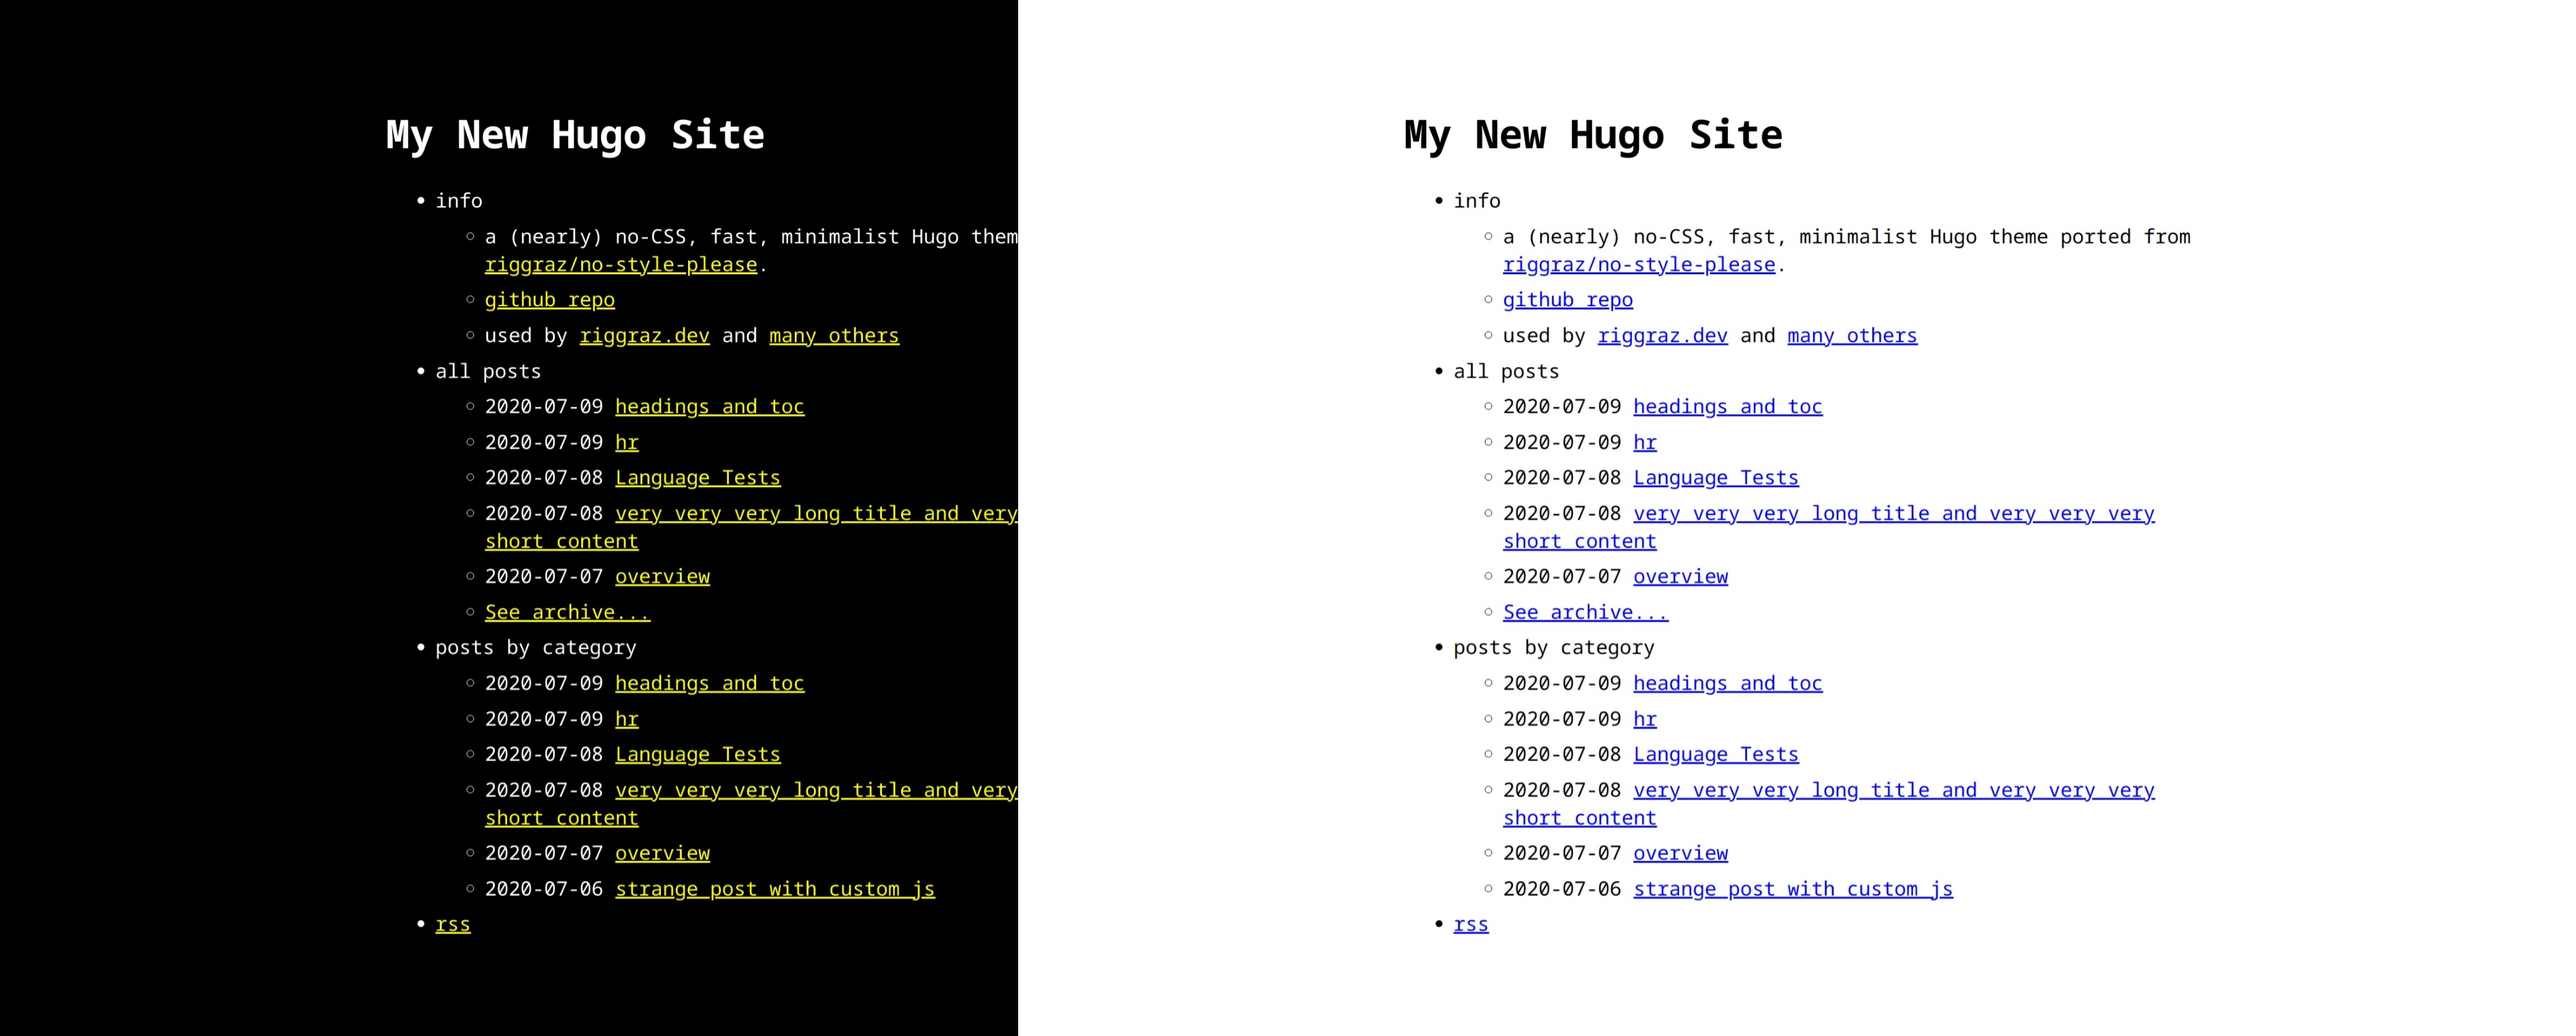
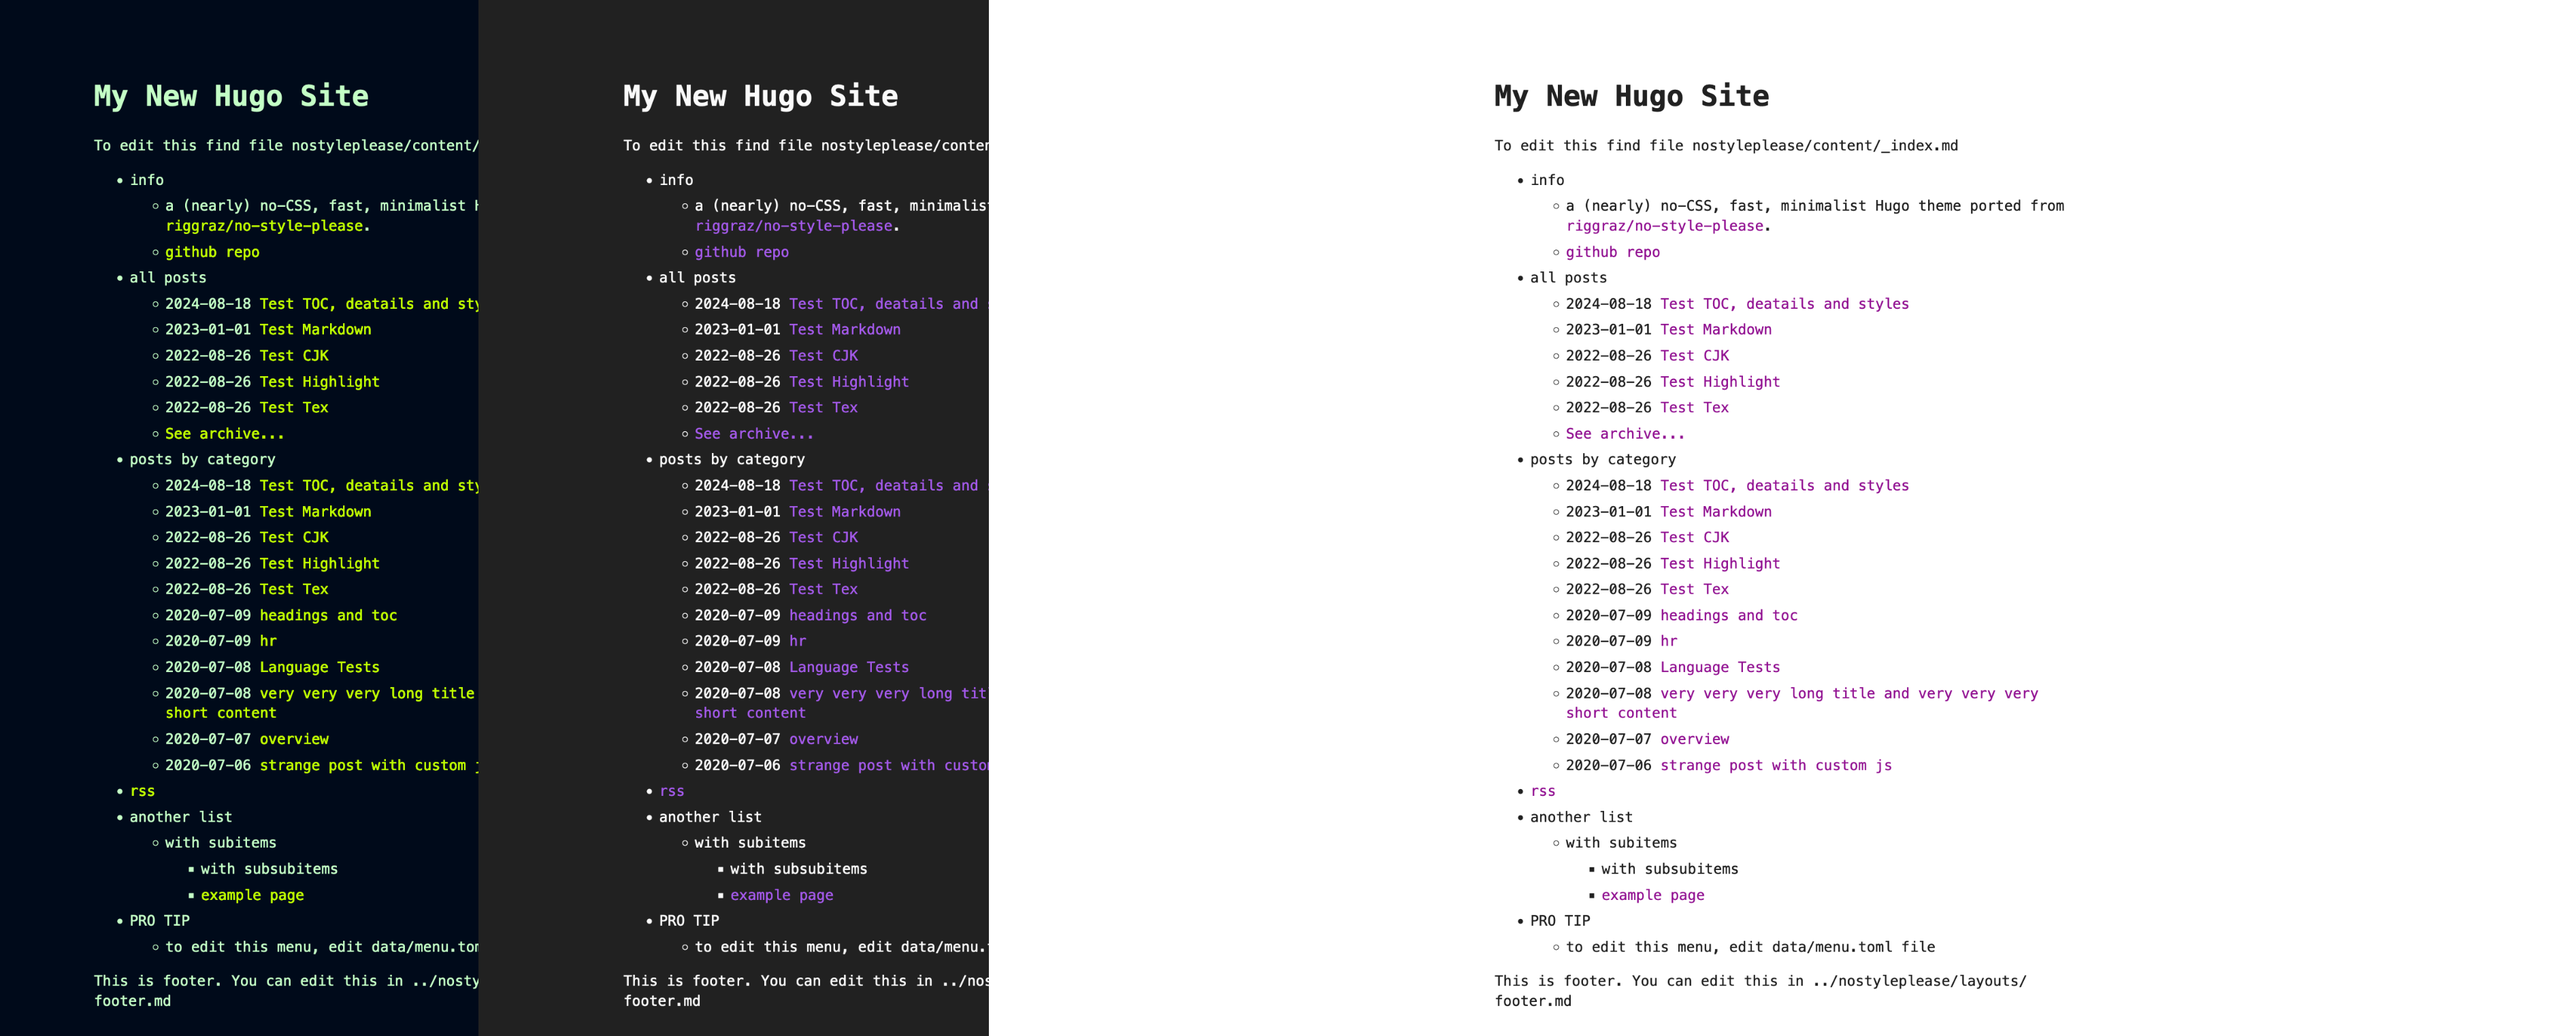
Updated readme file + _index.md

diff --git a/README.md b/README.md
@@ -6,12 +6,13 @@
 
 ## Features
 
-* Fast (**1kb of CSS!**)
-* Light, dark and auto modes
+* Fast (**under 3kb of CSS!**)
+* Light, dark, clean, retro color schemes and auto mode adapting to the browser/system
 * Responsive
 * Content first (typography optimized for maximum readability)
 * RSS feed (using Hugo's embedded RSS template)
 * MathJax support
+* Supporting details HTML tag
 
 ## Installation
 
@@ -50,6 +51,7 @@ The `index.md` page should use layout `home`, which is the layout that displays 
 
 Another thing you can do to customize the index page is show the description of your blog between the title and the menu. To do this, just edit `config.toml` and change `params.theme_config.show_description` to `true`.
 
+You can also add footer. Just edit ..nostyleplease/layouts/footer.md.
 ### Adding table of contents
 
 You can add a table of contents by supplying the `toc: true` param to your post front matter. If you want a border around it you can also set `tocBorder: true`. The toc style behavior is handled by Goldmark and the defaults can be found in the `config.toml` file.
@@ -66,7 +68,7 @@ For example, if you have a black and white image it could make sense to invert i
 
 ## Contributing
 
-Bug reports and pull requests are welcome on GitHub at https://github.com/Masellum/hugo-theme-nostyleplease. 
+Bug reports and pull requests are welcome on GitHub at https://github.com/hanwenguo/hugo-theme-nostyleplease/.
 
 ## Thanks
 

diff --git a/content/_index.md b/content/_index.md
@@ -3,3 +3,4 @@ title =  ""
 date = 2022-08-25T21:30:04+08:00
 draft = false
 +++
+To edit this find file nostyleplease/content/_index.md
